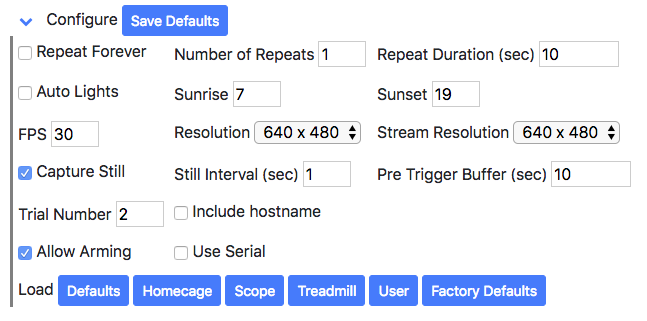
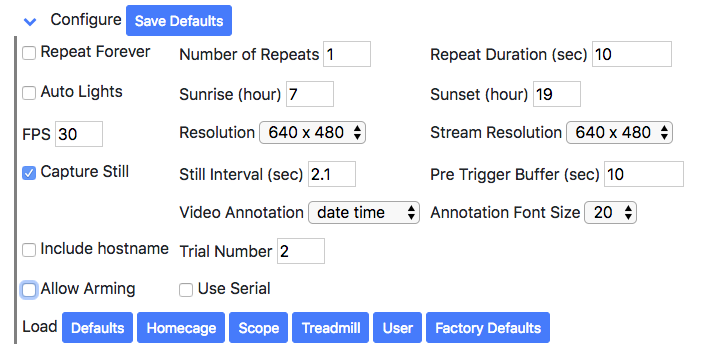
video annotations

diff --git a/pie_app/templates/partials/config_table.html b/pie_app/templates/partials/config_table.html
@@ -180,58 +180,16 @@
 	</td>
 	</tr>
 
-<!--
 	<tr>
-	<td>
-		<label>
-		<input type="checkbox" 
-			ng-model="configData.trial.config.hardware.dhtsensor.readtemperature" 
-			ng-change="configParamChange(configForm.$valid)" 
-			ng-disabled="! allowParamEdit()">		
-		Read Temperature</label>
-	</td>
-	<td>
-		<label>Temperature Interval (sec)
-		<input style="width: 5em" 
-			type="number"
-			ng-model="configData.trial.config.hardware.dhtsensor.temperatureInterval"
-			ng-change="configParamChange(configForm.$valid)"
-			ng-disabled="! allowParamEdit()" 
-			min="1"
-			step="1"
-			required>
-		</label>
-	</td>
-	</tr>
--->
 	
-	<tr>
 	<td>
-		<label>Trial Number
-		<input style="width: 3em" 
-			type="number"
-			ng-model="configData.trial.config.trial.trialNum"
-			ng-change="configParamChange(configForm.$valid)"
-			ng-disabled="! allowParamEdit()" 
-			min="0"
-			step="1"
-			required>
-		</label>
-	</td>	
-	<td>
-		<label>
-		<input type="checkbox" 
-			ng-model="configData.trial.config.trial.includeHostname" 
-			ng-change="configParamChange(configForm.$valid)" 
-			ng-disabled="! allowParamEdit()">		
-		Include hostname</label>
 	</td>
-
+	
 	<td>
-		<label>Default Annotation
+		<label>Video Annotation
 		<select name="" 
-			ng-init="configData.trial.config.video.defaultAnnotation" 
-			ng-model="configData.trial.config.video.defaultAnnotation" 
+			ng-init="configData.trial.config.video.videoAnnotation" 
+			ng-model="configData.trial.config.video.videoAnnotation" 
 			ng-Change="configParamChange(configForm.$valid)" 
 			ng-disabled="! allowParamEdit()" 
 			>
@@ -243,28 +201,6 @@
 		  <option value="video frame">video frame</option>
 		</select>
 		</label>
-	</td>
-
-	</tr>
-	
-	<tr>
-	
-	<td>
-		<label>
-		<input type="checkbox" 
-			ng-model="configData.trial.config.hardware.allowArming" 
-			ng-change="configParamChange(configForm.$valid)" 
-			ng-disabled="! allowParamEdit()">		
-		Allow Arming</label>
-	</td>
-
-	<td>
-		<label>
-		<input type="checkbox" 
-			ng-model="configData.trial.config.hardware.serial.useSerial" 
-			ng-change="configParamChange(configForm.$valid)" 
-			ng-disabled="! allowParamEdit()">		
-		Use Serial</label>
 	</td>
 
 	<td>
@@ -293,6 +229,78 @@
 		</select>
 		</label>
 	</td>
+	
+	</tr>
+	
+<!--
+	<tr>
+	<td>
+		<label>
+		<input type="checkbox" 
+			ng-model="configData.trial.config.hardware.dhtsensor.readtemperature" 
+			ng-change="configParamChange(configForm.$valid)" 
+			ng-disabled="! allowParamEdit()">		
+		Read Temperature</label>
+	</td>
+	<td>
+		<label>Temperature Interval (sec)
+		<input style="width: 5em" 
+			type="number"
+			ng-model="configData.trial.config.hardware.dhtsensor.temperatureInterval"
+			ng-change="configParamChange(configForm.$valid)"
+			ng-disabled="! allowParamEdit()" 
+			min="1"
+			step="1"
+			required>
+		</label>
+	</td>
+	</tr>
+-->
+	
+	<tr>
+	<td>
+		<label>
+		<input type="checkbox" 
+			ng-model="configData.trial.config.trial.includeHostname" 
+			ng-change="configParamChange(configForm.$valid)" 
+			ng-disabled="! allowParamEdit()">		
+		Include hostname</label>
+	</td>
+	<td>
+		<label>Trial Number
+		<input style="width: 3em" 
+			type="number"
+			ng-model="configData.trial.config.trial.trialNum"
+			ng-change="configParamChange(configForm.$valid)"
+			ng-disabled="! allowParamEdit()" 
+			min="0"
+			step="1"
+			required>
+		</label>
+	</td>
+
+	</tr>
+	
+	<tr>
+	
+	<td>
+		<label>
+		<input type="checkbox" 
+			ng-model="configData.trial.config.hardware.allowArming" 
+			ng-change="configParamChange(configForm.$valid)" 
+			ng-disabled="! allowParamEdit()">		
+		Allow Arming</label>
+	</td>
+
+	<td>
+		<label>
+		<input type="checkbox" 
+			ng-model="configData.trial.config.hardware.serial.useSerial" 
+			ng-change="configParamChange(configForm.$valid)" 
+			ng-disabled="! allowParamEdit()">		
+		Use Serial</label>
+	</td>
+
 	
 	<!-- load default config files -->
 	<tr>

diff --git a/pie_app/templates/index.html b/pie_app/templates/index.html
@@ -83,26 +83,26 @@ table.table.table-condensed {
 	<table class="table" style="width: auto;">
 
 	<tr>
-	<td>
+	<td title="PiE Server Hostname">
 	{{ status.trial.systemInfo.hostname }}
 	</td>
-	<td>
+	<td title="PiE Server IP Address">
 	{{ status.trial.systemInfo.ip }}
 	</td>
-	<td>
+	<td title="PiE Server Date and Time">
 	{{ status.trial.runtime.currentDate }} {{ status.trial.runtime.currentTime }}
 	</td>
 	<td>
-		<A HREF="{{myUrl}}videolist" target="_blank" style="color: #000000;"><i class="fa fa-database" aria-hidden="true"></i></a>
+		<A title="Recorded Video Files" HREF="{{myUrl}}videolist" target="_blank" style="color: #000000;"><i class="fa fa-database" aria-hidden="true"></i></a>
 	</td>
 	<td>
-		<A HREF="{{myUrl}}log" target="_blank" style="color: #000000;"><i class="fa fa-list-alt" aria-hidden="true"></i></a>
+		<A title="PiE Server Log" HREF="{{myUrl}}log" target="_blank" style="color: #000000;"><i class="fa fa-list-alt" aria-hidden="true"></i></a>
 	</td>
 	<td>
-		<A HREF="{{myUrl}}environment" target="environment" style="color: #000000;"><i class="fa fa-thermometer-half" aria-hidden="true"></i></a>
+		<A title="Temperature and Humidity Log" HREF="{{myUrl}}environment" target="environment" style="color: #000000;"><i class="fa fa-thermometer-half" aria-hidden="true"></i></a>
 	</td>
 	<td>
-		<A HREF="https://github.com/cudmore/pie" target="_blank" style="color: #000000;"><i class="fa fa-question" aria-hidden="true"></i></A>
+		<A title="PiE Server GitHub Repository" HREF="https://github.com/cudmore/pie" target="_blank" style="color: #000000;"><i class="fa fa-github" aria-hidden="true"></i></A>
 	</td>
 	</tr>
 

diff --git a/pie_app/bCamera.py b/pie_app/bCamera.py
@@ -414,7 +414,7 @@ class bCamera:
 					circulario.copy_to(beforefilepath, seconds=bufferSeconds)
 					circulario.clear()
 			
-					startRecordSeconds = time.time()
+					self.startRecordSeconds = time.time()
 					self.secondsElapsedStr = '0'
 			
 					#logger.debug('Start video file: ' + afterfilename)
@@ -422,10 +422,10 @@ class bCamera:
 				
 					# Record ONE video file per start trigger (this is a limitation)
 					stopOnTrigger = False #todo: make this global and set on pin
-					while self.isState('armedrecording') and not stopOnTrigger and (time.time()<(startRecordSeconds + float(repeatDuration))):
+					while self.isState('armedrecording') and not stopOnTrigger and (time.time()<(self.startRecordSeconds + float(repeatDuration))):
 						self.camera.wait_recording() # seconds
 
-						self.secondsElapsedStr = str(round(time.time() - startRecordSeconds, 1))
+						self.secondsElapsedStr = str(round(time.time() - self.startRecordSeconds, 1))
 
 						if captureStill and time.time() > (self.lastStillTime + float(stillInterval)):
 							self.camera.capture(self.stillPath, use_video_port=True)
@@ -469,7 +469,7 @@ class bCamera:
 				
 				# to do, add these to config json
 				#defaultAnnotation = 'none' # ('none', 'date', 'time', 'date time', 'elapsed', 'video frame')
-				defaultAnnotation = self.trial.getConfig('video', 'defaultAnnotation')
+				videoAnnotation = self.trial.getConfig('video', 'videoAnnotation')
 				
 				dateStr = datetime.now().strftime('%Y-%m-%d')
 				timeStr = datetime.now().strftime('%H:%M:%S')
@@ -481,21 +481,21 @@ class bCamera:
 					origText = ''
 				else:
 					origText = ' ' + newAnnotation
-				text = origText # in case we get a bad value for defaultAnnotation
-				if defaultAnnotation == 'none':
+				text = origText # in case we get a bad value for videoAnnotation
+				if videoAnnotation == 'none':
 					text = origText
-				elif defaultAnnotation == 'date':
+				elif videoAnnotation == 'date':
 					text = dateStr + origText
-				elif defaultAnnotation == 'time':
+				elif videoAnnotation == 'time':
 					text = timeStr + origText
-				elif defaultAnnotation == 'date time':
+				elif videoAnnotation == 'date time':
 					text = dateStr + ' ' + timeStr + origText
-				elif defaultAnnotation == 'elapsed':
+				elif videoAnnotation == 'elapsed':
 					elapsedSeconds = time.time() - self.startRecordSeconds
 					elapsedSeconds = math.floor(elapsedSeconds*100)/100
 					elapsedSeconds = '%.2f'% elapsedSeconds
 					text = str(elapsedSeconds) + origText
-				elif defaultAnnotation == 'video frame': # video frame, not scope frame
+				elif videoAnnotation == 'video frame': # video frame, not scope frame
 					self.camera.annotate_frame_num = True
 					text = '' # don't show any text while showing video frame
 				# add text annotation

diff --git a/readme-web.md b/readme-web.md
@@ -12,9 +12,9 @@ The top row displays the PiE server hostname, IP, and current date and time. If 
 
 **Start Recording**. Will start a video recording following 'Repeat Forever', 'Number of Repeats' and 'Repeat Duration'. These parameters can be set and saved in the 'Configure' section. 
 
-**Streaming**. Will start streaming the camera to the web page. If the stream fails to start the first time, try turning it off and then on again.
+**Streaming**. Will start streaming the camera to the web page. If the stream fails to start the first time, try turning it off and then on again. If it still does not work, refresh the page in the browser.
 
-**Arm**. When checked, the PiE server will wait for an input trigger (Input Pins - triggerIn - GPIO 24). Turning 'Arm' on will force 'Repeat Forever' off and 'Number of Repeats' to 1. Arming is only available when 'Config - Allow Arming' is on. When 'Arm' is on and an input trigger is received, a pre-trigger video recording will be saved following 'Configure - Pre Trigger Buffer (sec)'.
+**Arm**. When checked, the PiE server will wait for an input trigger (Input Pins - triggerIn). Turning 'Arm' on will force 'Repeat Forever' off and 'Number of Repeats' to 1. Arming is only available when 'Config - Allow Arming' is on. When 'Arm' is on and an input trigger is received, a pre-trigger video recording will be saved. The duration of the pre-trigger video is set in 'Configure - Pre Trigger Buffer (sec)'.
 
 **Last Action**. Is updated with the last action the PiE server took. This is normally updated in response to clicking interface buttons.
 
@@ -46,15 +46,17 @@ The Configure section allows parameters of the PiE server to be set. Current par
 
 **Pre Trigger Buffer (sec)**. Used for 'Armed' recording. Specifies the duration of video recording before each trigger.
 
-**Trial Number**. Allows the trial number to be manually set. The trial number is always automatically incremented each time 'Start Recording' or 'Start Trial' are initiated.
+**Video Annotation and Annotation Font Size**. Annotate text on top of video recording. Select one of: none, date, time, date time, elapsed, or video frame.
 
 **Include Hostname**. If checked, the hostname will be pre-pended to each saved video file.
+
+**Trial Number**. Allows the trial number to be manually set. The trial number is always automatically incremented each time 'Start Recording' or 'Start Trial' are initiated.
 
 **Allow Arming**. If on, will expose the 'Arm' interface. This assumes the PiE server has been wired to a trigger in and optionally a microscope frame-clock.
 
 **Use Serial**. If on, will expose the 'Motor' interface. This assumes a Teensy microcontroller is attached via usb.
 
-**Load**. Buttons to load sets of configuration parameters. This includes the last configuration saved with 'Save Defaults' as well as pre-defined configuration parameters. It is easy and intuitive to specify your own sets of configuration parameters and use 'Save Defaults' exclusively.
+**Load**. Buttons to load presets of configuration parameters. This includes 'Defaults',  the last configuration saved with 'Save Defaults' as well as pre-defined configuration parameters. It is easy and intuitive to specify your own sets of configuration parameters and use 'Save Defaults' exclusively.
 
  - **Defaults**. Load the last configuration saved with 'Save Defaults'.
  - **Homecage**. Auto lights on, arm off, serial off.
@@ -73,7 +75,9 @@ The Pins section allows GPIO pin parameters to be specified. The `triggerIn` and
 
 All parameters in the 'Pins' section will be save with 'Config - Save Defaults'.
 
-**Note**. To change 'Pin' numbers, the config json files need to be manually edited.
+To change 'Pin' numbers, the config json files need to be manually edited.
+
+**DHT Temperautre/Humidity**. If enabled is checked, temperature and humidity will be logged to all video recording trial files at the specified interval. If continuous is checked, temperature and humidity readings will be logged continuosly (wether video is recording or not). The continuous log can be accessed on a separate page (called environment) using the thermometer icon.
 
 ## Motor
 
@@ -81,4 +85,9 @@ All parameters in the 'Pins' section will be save with 'Config - Save Defaults'.
 <IMG SRC="docs/img/web/web_motor.png">
 </td></tr></table>
 
-The Motor section allows parameters to be uploaded to a Teensy microcontroller. This is only for advanced users.
+The Motor section allows parameters to be uploaded to a Teensy microcontroller. This is only for advanced users. Activate this section by turning on 'Configure - Use Serial'.
+
+## Debug
+
+This section reports all parameters/variables received from the PiE server. Use 'Restart Background Pie Server' to restart the PiE server.
+

diff --git a/readme.md b/readme.md
@@ -502,9 +502,10 @@ This happens when you try and start the server but it is already running. Usuall
 
 ## To Do
 
- - make sure streaming stops when browser is closed
- - expand sunrise/sunset to fractional hour
- - add warning when video/ drive space remaining is less than 1 GB
+ - Make sure streaming stops when browser tab is closed or browser is quit.
+ - Expand sunrise/sunset to fractional hour.
+ - Add warning when video/ drive space remaining is less than 1 GB. Do this by updating status.trial.systemInfo.gbRemaining at the end of each recording (record video thread, and armed recording thread).
+  - Have some mechanism to roll-over or otherwise replace the continuous log file.
   
 [install-stretch]: http://blog.cudmore.io/post/2017/11/22/raspian-stretch/
 [steppermotor]: https://www.sparkfun.com/products/9238

diff --git a/trigger_app/readme.md b/trigger_app/readme.md
@@ -1,6 +1,6 @@
 # Trigger App
 
-A dead simple zero configuration app that uses GPIO input to start a trial and then receive frames.
+A dead simple zero configuration app that uses GPIO input to start a trial and then receive frames. Do not use/run this at the same time as the main PiE server.
 
 ## Install
 
